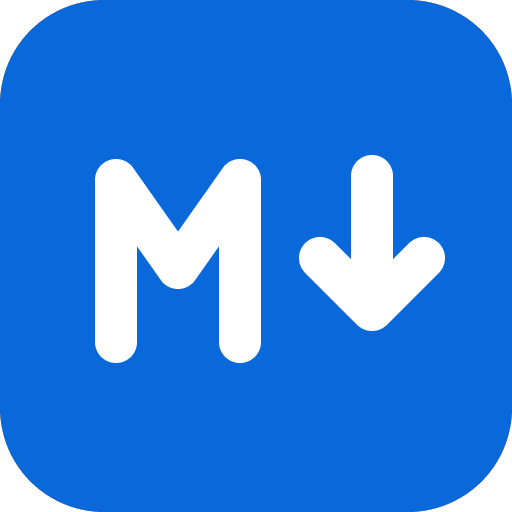
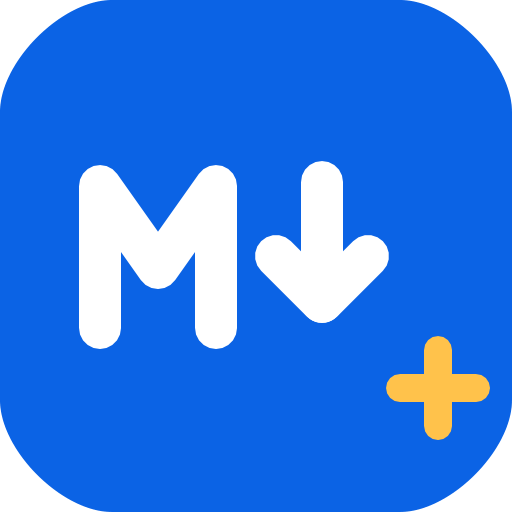
Refactor README and update branding to .MD reader+, implement document opening via URL

diff --git a/js/app.js b/js/app.js
@@ -5,6 +5,7 @@ import { Editor, lineOps } from './editor.js';
 import { renderMarkdown, countStats } from './renderer.js';
 import {
   openFile, openDropped, saveFile, saveFileAs, isMarkdownName,
+  documentUrlFromLocation, fileNameFromUrl,
   saveDraft, loadDraft, clearDraft, supportsFSAccess,
 } from './files.js';
 import { exportPdf, initPrintHooks } from './pdfexport.js';
@@ -12,7 +13,7 @@ import { initTheme, toggleTheme, currentTheme } from './theme.js';
 
 const $ = (sel) => document.querySelector(sel);
 
-const WELCOME = `# Welcome to MarkPad :wave:
+const WELCOME = `# Welcome to .MD reader+ :wave:
 
 A fast, **offline-first** Markdown editor with GitHub-style preview and
 one-click PDF export. Your work autosaves locally and never leaves this
@@ -95,7 +96,7 @@ function toast(msg, ms = 2600) {
 function refreshFileStatus() {
   $('#file-name').textContent = state.fileName;
   $('#dirty-dot').hidden = !isDirty();
-  document.title = `${isDirty() ? '• ' : ''}${state.fileName} — MarkPad`;
+  document.title = `${isDirty() ? '• ' : ''}${state.fileName} — .MD reader+`;
 }
 
 /* --------------------------------------------------------------- preview */
@@ -135,6 +136,43 @@ function onEdited() {
   refreshStats();
   refreshFileStatus();
   scheduleDraft();
+}
+
+
+/* ------------------------------------------------- open a document by URL */
+
+async function openFromUrl(raw) {
+  const status = $('#status-msg');
+  status.textContent = 'Loading document…';
+  try {
+    const res = await fetch(raw, { credentials: 'omit', redirect: 'follow' });
+    if (!res.ok) throw new Error(`the server replied ${res.status}`);
+    const text = await res.text();
+    const name = fileNameFromUrl(raw);
+    // No file handle: the document came off the network, so Save As is the
+    // only way back to disk. Recording lastSaved keeps it from opening in a
+    // dirty state, which would otherwise nag on the first keystroke.
+    loadDocument(text, name, null);
+    // Compare against what the editor actually holds, not the bytes off the
+    // wire: setValue normalises line endings, so storing the raw text marked
+    // a freshly opened document as already modified.
+    state.lastSaved = editor.getValue();
+    saveDraft({ content: state.lastSaved, fileName: name, dirty: false });
+    refreshFileStatus();
+    renderPreviewNow();
+    status.textContent = `Opened ${name}`;
+    toast(`Opened ${name}`);
+  } catch (err) {
+    console.error(err);
+    status.textContent = 'Could not load the linked document';
+    // Naming the cause matters here: a cross-origin block and a dead link
+    // look identical from the outside, and only one of them is fixable by
+    // the person who sent the link.
+    const why = err instanceof TypeError
+      ? 'the server refused the request (it may not allow cross-origin reads)'
+      : err.message;
+    toast(`Could not load that link — ${why}`, 6000);
+  }
 }
 
 /* ------------------------------------------------------------- file ops */
@@ -427,4 +465,10 @@ window.addEventListener('offline', updateOnlineBadge);
   onEdited();
   renderPreviewNow(); // first paint shouldn't wait for the debounce
   updateOnlineBadge();
+
+  // A link is an explicit request for a specific document, so it replaces
+  // whatever the draft restored. Done after the first paint so the editor is
+  // already usable while the fetch is in flight.
+  const linked = documentUrlFromLocation();
+  if (linked) openFromUrl(linked);
 })();

diff --git a/tests/tests.js b/tests/tests.js
@@ -6,7 +6,7 @@ import { renderMarkdown, extractToc, countStats, createSlugger } from '../js/ren
 import { continueList, toggleWrap, lineBlock, transformLines, lineOps } from '../js/editor.js';
 import { highlightLines } from '../js/mdhighlight.js';
 import { EMOJI } from '../js/emoji-map.js';
-import { isMarkdownName } from '../js/files.js';
+import { isMarkdownName, documentUrlFromLocation, fileNameFromUrl } from '../js/files.js';
 
 const results = [];
 const out = (msg) => {
@@ -33,6 +33,44 @@ const has = (haystack, needle) => {
 const lacks = (haystack, needle) => {
   if (haystack.includes(needle)) throw new Error(`should NOT contain ${JSON.stringify(needle)}`);
 };
+
+/* ------------------------------------------------------- deep-link by URL */
+
+t('reads ?url= from the query string', () => {
+  eq(documentUrlFromLocation('?url=https://h/a.md'), 'https://h/a.md');
+});
+
+t('accepts file= and src= as aliases', () => {
+  eq(documentUrlFromLocation('?file=https://h/a.md'), 'https://h/a.md');
+  eq(documentUrlFromLocation('?src=https://h/a.md'), 'https://h/a.md');
+});
+
+t('no parameter yields empty string', () => {
+  eq(documentUrlFromLocation('?theme=dark'), '');
+  eq(documentUrlFromLocation(''), '');
+});
+
+t('file name comes from the URL path', () => {
+  eq(fileNameFromUrl('https://h/docs/design-notes.md'), 'design-notes.md');
+});
+
+t('percent-encoded names are decoded', () => {
+  eq(fileNameFromUrl('https://h/docs/my%20notes.md'), 'my notes.md');
+});
+
+t('file name falls back to a query parameter when the path has none', () => {
+  // How the Soft Library Assistant serves a shelf file.
+  eq(fileNameFromUrl('http://h:8787/library/raw?relpath=Control/README.md'),
+     'README.md');
+});
+
+t('a non-markdown path still yields a usable name', () => {
+  eq(fileNameFromUrl('https://h/download'), 'download');
+});
+
+t('a malformed URL does not throw', () => {
+  eq(fileNameFromUrl('::::'), 'document.md');
+});
 
 /* ------------------------------------------------------------- renderer */
 

diff --git a/index.html b/index.html
@@ -3,9 +3,9 @@
 <head>
   <meta charset="UTF-8">
   <meta name="viewport" content="width=device-width, initial-scale=1, viewport-fit=cover">
-  <meta name="description" content="MarkPad — an offline-first Markdown editor with GitHub-style preview and PDF export. Private: your files never leave your device.">
+  <meta name="description" content=".MD reader+ — an offline-first Markdown editor with GitHub-style preview and PDF export. Private: your files never leave your device.">
   <meta name="theme-color" content="#f2f5fb">
-  <title>MarkPad — Markdown Editor</title>
+  <title>.MD reader+ — Markdown Editor</title>
 
   <link rel="manifest" href="manifest.webmanifest">
   <link rel="icon" href="icons/icon.svg" type="image/svg+xml">
@@ -45,7 +45,7 @@
     <header class="topbar">
       <div class="brand">
         <img src="icons/icon.svg" alt="" width="22" height="22">
-        <span class="brand-name">MarkPad</span>
+        <span class="brand-name"><span class="brand-ext">.MD</span> reader<span class="brand-plus">+</span></span>
       </div>
 
       <div class="file-info" aria-live="polite">
@@ -156,7 +156,7 @@
     </main>
 
     <footer class="statusbar">
-      <span id="status-file" class="status-item">MarkPad v1.0</span>
+      <span id="status-file" class="status-item">.MD reader+ v1.0</span>
       <span id="status-net" class="status-item status-net"></span>
       <span id="status-msg" class="status-item status-msg" aria-live="polite"></span>
       <span class="status-spacer"></span>
@@ -211,6 +211,6 @@
 
   <div id="toast" class="toast" role="status" aria-live="polite"></div>
 
-  <noscript><p style="padding:2rem">MarkPad needs JavaScript to run — everything stays on your device.</p></noscript>
+  <noscript><p style="padding:2rem">.MD reader+ needs JavaScript to run — everything stays on your device.</p></noscript>
 </body>
 </html>

diff --git a/js/files.js b/js/files.js
@@ -57,6 +57,43 @@ export function isMarkdownName(name) {
   return /\.(md|markdown|mdown|txt)$/i.test(name ?? '');
 }
 
+/**
+ * The document URL MarkPad was deep-linked with, if any:
+ *
+ *     index.html?url=https://host/path/notes.md
+ *
+ * This is how another application hands a document over — the Soft Library
+ * Assistant opens `.md` files from its shelf this way. `file` and `src` are
+ * accepted as aliases because callers guess at all three.
+ */
+export function documentUrlFromLocation(search = location.search) {
+  const q = new URLSearchParams(search);
+  return (q.get('url') || q.get('file') || q.get('src') || '').trim();
+}
+
+/** Best-effort document name from a URL, for the title bar and Save As. */
+export function fileNameFromUrl(raw, base = 'http://localhost/') {
+  try {
+    const u = new URL(raw, base);
+    const fromPath = decodeURIComponent(u.pathname.split('/').pop() || '');
+    if (isMarkdownName(fromPath)) return fromPath;
+    // Servers that stream a file by query rather than by path, e.g.
+    // /library/raw?relpath=Notes/design.md
+    for (const key of ['relpath', 'path', 'name', 'file']) {
+      const v = u.searchParams.get(key);
+      const last = v && decodeURIComponent(v).split('/').pop();
+      if (last && isMarkdownName(last)) return last;
+    }
+    // A URL need not be malformed to yield a useless name: `new URL('::::')`
+    // resolves happily and leaves "::::" as the last path segment, which is
+    // not a legal filename on Windows and would surface in Save As.
+    const safe = fromPath.replace(/[<>:"/\\|?*]/g, '').trim();
+    return /[A-Za-z0-9]/.test(safe) ? safe : 'document.md';
+  } catch {
+    return 'document.md';
+  }
+}
+
 async function verifyWritePermission(handle) {
   const opts = { mode: 'readwrite' };
   if ((await handle.queryPermission(opts)) === 'granted') return true;

diff --git a/css/app.css b/css/app.css
@@ -173,11 +173,30 @@ button { font: inherit; color: inherit; }
 }
 
 .brand-name {
+  letter-spacing: 0.01em;
+  white-space: nowrap;
+  color: var(--fg);
+}
+
+/* ".MD" carries the brand colour and the file-extension idea; the rest of the
+   name stays quiet so the lockup reads as one word, not three competing ones. */
+.brand-ext {
   background: linear-gradient(90deg, var(--accent), var(--accent-2));
   -webkit-background-clip: text;
   background-clip: text;
   color: transparent;
-  letter-spacing: 0.04em;
+  font-weight: 800;
+}
+
+/* The "+" is the mark's accent, repeated here at superscript size so the icon
+   and the wordmark are recognisably the same brand. */
+.brand-plus {
+  color: #f0a92b;
+  font-weight: 800;
+  font-size: 0.82em;
+  vertical-align: super;
+  line-height: 0;
+  margin-left: 1px;
 }
 
 .file-info {

diff --git a/README.md b/README.md
@@ -47,6 +47,33 @@ or any static server (`npx serve`, nginx, GitHub Pages, …). Visit once online;
 after that it works fully offline and can be installed from the browser's
 "Install app" prompt.
 
+## Opening a document by link
+
+MarkPad can be pointed at a remote Markdown file with a query parameter, so
+another application can hand a document over:
+
+```
+https://newtonjeri.github.io/MarkDown-WebApp/?url=https://example.com/notes.md
+```
+
+`file=` and `src=` are accepted as aliases. The linked document replaces
+whatever the autosaved draft restored, and opens in a clean (unmodified)
+state — it has no file handle, so **Save As** is the way back to disk.
+
+The document name is taken from the URL path, falling back to a `relpath`,
+`path`, `name` or `file` query parameter for servers that stream a file by
+query rather than by path.
+
+Two requirements on the host serving the document:
+
+- it must send a permissive `Access-Control-Allow-Origin`, since the fetch is
+  cross-origin from `github.io`;
+- it should serve the file as `text/markdown` (or any text type) rather than
+  forcing a download.
+
+If the fetch fails, MarkPad says why — a cross-origin refusal and a dead link
+are indistinguishable to the user otherwise — and leaves the editor usable.
+
 ## Keyboard shortcuts
 
 | Action | Shortcut | | Action | Shortcut |
